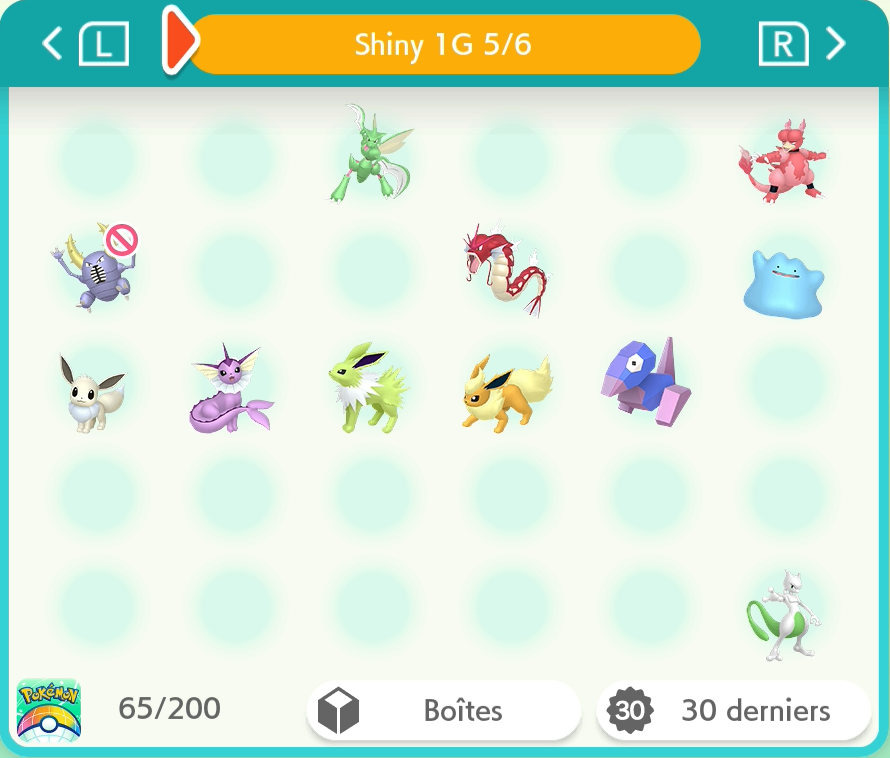
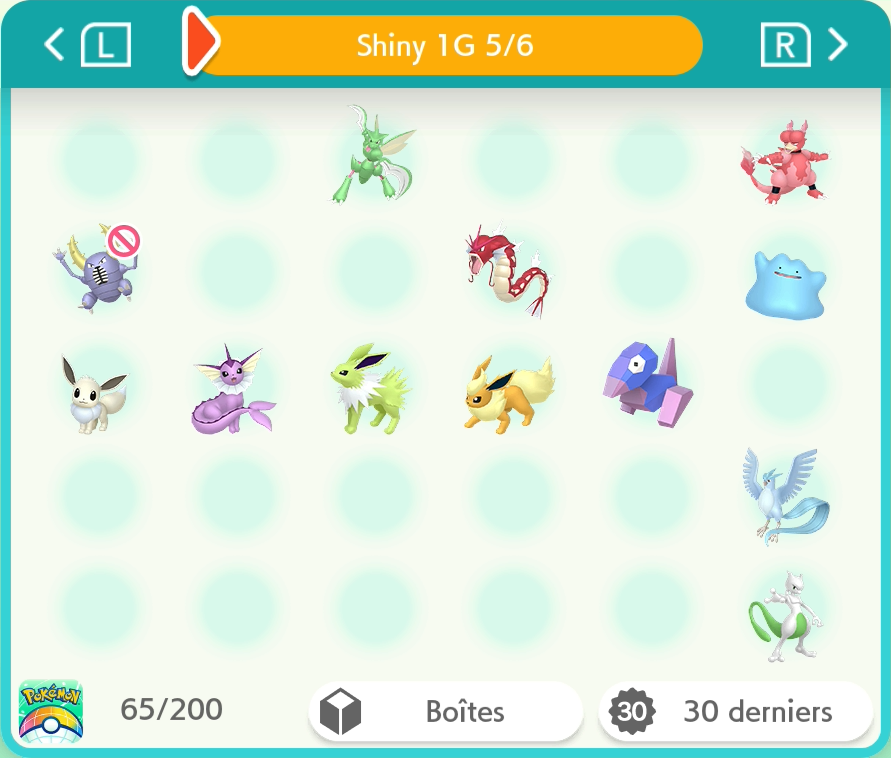
1G : Artikodin

diff --git a/README.md b/README.md
@@ -3,11 +3,11 @@
 Pokémon-Elément-Sh -> <a href="https://www.pokemon-element-sh.fr/profil/karyno21" target="_blank">Karyno21</a>
 
 ↓ Dernière Update le 15/09/2026 à 3h12 ↓
-### Dex National [266/999] +5
+### Dex National [267/999] +6
 
 | Gen | Prog | Notes |
 |:--:|:--:|---|
-|1G|42/151||
+|1G|43/151|+1 Artikodin|
 |2G|33/100|+1 Celebi|
 |3G|22/135|+1 Spinda|
 |4G|20/107||
